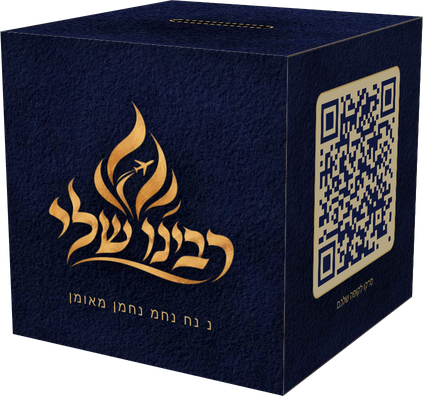
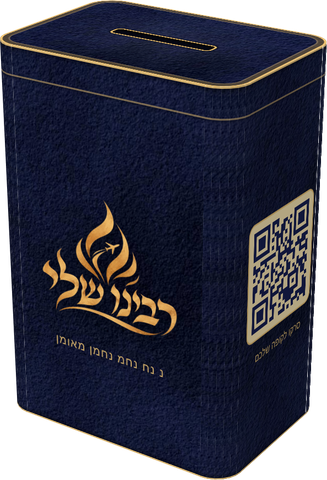
Box now matches the real tin: tall 65×45×95 shape with rounded corners and lid rim; re-rendered box images, story card and share image
Claude-Session: https://claude.ai/code/session_01VgTt85jE2ddtHjzq3dwd3t

diff --git a/public/kbox.css b/public/kbox.css
@@ -1,20 +1,24 @@
 /* the tzedakah box – one clean matte colour, logo centred, QR on the side */
-.kb{--w:calc(300px*var(--s,1));--h:calc(300px*var(--s,1));--d:calc(300px*var(--s,1));--u:calc(1px*var(--s,1));width:var(--w);height:var(--h);position:relative;transform-style:preserve-3d}
-.kb .f{position:absolute;backface-visibility:hidden;background:#141c4a url(/stone.jpg);background-size:calc(300px*var(--s,1));overflow:hidden;box-shadow:inset 0 0 0 calc(1.2*var(--u)) rgba(212,176,106,.35)}
-.kb .f::before{content:"";position:absolute;inset:0;background:url(/grain.jpg);background-size:calc(240px*var(--s,1));opacity:0}
-.kb .fr,.kb .bk{width:var(--w);height:var(--h)}
-.kb .fr{transform:translateZ(calc(var(--d)/2));display:grid;place-items:center;align-content:center;gap:calc(14*var(--u));box-shadow:inset 0 0 calc(50*var(--u)) rgba(0,0,0,.35)}
-.kb .bk{transform:rotateY(180deg) translateZ(calc(var(--d)/2))}
-.kb .lt,.kb .rt{width:var(--d);height:var(--h);left:calc((var(--w) - var(--d))/2);display:grid;place-items:center;align-content:center;gap:calc(14*var(--u))}
+/* the tzedakah box – a tall tin box (65×45×95 mm) with rounded vertical corners, like the real one.
+   faces: fr (logo) · rt/lt (QR) · tp (slot). The rounded corners are thin strips added by /kbox.js */
+.kb{--u:calc(1px*var(--s,1));--w:calc(246*var(--u));--d:calc(170*var(--u));--h:calc(360*var(--u));--r:calc(26*var(--u));width:var(--w);height:var(--h);position:relative;transform-style:preserve-3d}
+.kb .f,.kb .cs{position:absolute;backface-visibility:hidden;background-color:#141c4a;background-image:linear-gradient(180deg,#d4b06a 0,#d4b06a calc(1.6*var(--u)),rgba(0,0,0,.35) calc(1.6*var(--u)),transparent calc(6*var(--u)),transparent calc(100% - 6*var(--u)),rgba(0,0,0,.4) calc(100% - 1.6*var(--u)),#d4b06a calc(100% - 1.6*var(--u))),linear-gradient(180deg,transparent calc(26*var(--u)),rgba(212,176,106,.55) calc(26*var(--u)),rgba(212,176,106,.55) calc(27.4*var(--u)),rgba(0,0,0,.28) calc(27.4*var(--u)),transparent calc(30*var(--u))),url(/stone.jpg);background-size:auto,auto,calc(300*var(--u));overflow:hidden}
+.kb .f::before{content:none}
+.kb .f,.kb .cs{box-sizing:border-box}
+.kb .fr,.kb .bk{width:calc(var(--w) - 2*var(--r));height:var(--h);left:var(--r)}
+.kb .fr{transform:translateZ(calc(var(--d)/2));display:grid;place-items:center;align-content:center;gap:calc(16*var(--u));padding-top:calc(30*var(--u))}
+.kb .bk{transform:rotateY(180deg) translateZ(calc(var(--d)/2));filter:brightness(.7)}
+.kb .lt,.kb .rt{width:calc(var(--d) - 2*var(--r));height:var(--h);left:calc((var(--w) - var(--d))/2 + var(--r));display:grid;place-items:center;align-content:center;gap:calc(12*var(--u));padding-top:calc(30*var(--u))}
 .kb .rt{transform:rotateY(90deg) translateZ(calc(var(--w)/2));filter:brightness(.78)}.kb .lt{transform:rotateY(-90deg) translateZ(calc(var(--w)/2));filter:brightness(.6)}
-.kb .tp,.kb .bt{width:var(--w);height:var(--d);top:calc((var(--h) - var(--d))/2)}
+.kb .tp,.kb .bt{width:var(--w);height:var(--d);top:calc((var(--h) - var(--d))/2);border-radius:var(--r);background-image:radial-gradient(ellipse at 50% 50%,rgba(255,255,255,.06),transparent 70%),url(/stone.jpg);background-size:auto,calc(300*var(--u));box-shadow:inset 0 0 0 calc(2*var(--u)) #c9a35c,inset 0 0 0 calc(7*var(--u)) rgba(0,0,0,.35),inset 0 0 0 calc(8.4*var(--u)) rgba(212,176,106,.45)}
 .kb .tp{transform:rotateX(90deg) translateZ(calc(var(--h)/2));filter:brightness(1.18)}.kb .bt{transform:rotateX(-90deg) translateZ(calc(var(--h)/2));filter:brightness(.45)}
-.kb .lg{width:72%;filter:drop-shadow(0 calc(3*var(--u)) calc(5*var(--u)) rgba(0,0,0,.45))}
-.kb .nn{font-family:Fredoka,sans-serif;font-weight:500;font-size:calc(13.5*var(--u));letter-spacing:.16em;color:#d4b06a;white-space:nowrap}
-.kb .qr{width:56%;aspect-ratio:1;padding:calc(9*var(--u));border-radius:calc(10*var(--u));background:#e6d3a6;box-shadow:0 0 0 calc(1.5*var(--u)) #d4b06a}
+.kb .cs{top:0;height:var(--h)}
+.kb .lg{width:80%;filter:drop-shadow(0 calc(3*var(--u)) calc(5*var(--u)) rgba(0,0,0,.45))}
+.kb .nn{font-family:Fredoka,sans-serif;font-weight:500;font-size:calc(11.5*var(--u));letter-spacing:.08em;color:#d4b06a;white-space:nowrap}
+.kb .qr{width:80%;aspect-ratio:1;padding:calc(7*var(--u));border-radius:calc(8*var(--u));background:#e6d3a6;box-shadow:0 0 0 calc(1.5*var(--u)) #d4b06a}
 .kb .qr img{width:100%;height:100%;display:block}
-.kb .qt{font-family:Fredoka,sans-serif;font-weight:500;font-size:calc(11*var(--u));color:#d4b06a;text-align:center;line-height:1.35;padding:0 calc(10*var(--u))}
-.kb .slot{position:absolute;left:50%;top:50%;width:calc(110*var(--u));height:calc(12*var(--u));margin:calc(-6*var(--u)) 0 0 calc(-55*var(--u));border-radius:99px;background:#03050f;box-shadow:inset 0 calc(3*var(--u)) calc(4*var(--u)) #000,0 0 0 calc(2*var(--u)) #c9a35c}
+.kb .qt{font-family:Fredoka,sans-serif;font-weight:500;font-size:calc(10.5*var(--u));color:#d4b06a;text-align:center;line-height:1.35;padding:0 calc(6*var(--u))}
+.kb .slot{position:absolute;left:50%;top:50%;width:calc(100*var(--u));height:calc(13*var(--u));margin:calc(-6.5*var(--u)) 0 0 calc(-50*var(--u));border-radius:calc(4*var(--u));background:#03050f;box-shadow:inset 0 calc(3*var(--u)) calc(4*var(--u)) #000,0 0 0 calc(2*var(--u)) #c9a35c,0 0 0 calc(3.5*var(--u)) rgba(0,0,0,.4)}
 /* falling shekel – real 3D coin inside the box space, drops edge-first through the slot */
 .kb .cn3{position:absolute;left:50%;top:0;width:calc(54*var(--u));height:calc(54*var(--u));margin:calc(-27*var(--u)) 0 0 calc(-27*var(--u));transform-style:preserve-3d;animation:cdrop 4.6s infinite;pointer-events:none}
 .kb .cn3 i{position:absolute;inset:0;border-radius:50%;background:linear-gradient(90deg,#6f747b,#c9ced4 50%,#6f747b)}

diff --git a/public/index.html b/public/index.html
@@ -8,7 +8,7 @@
 <link rel="icon" href="/favicon.png"><link rel="apple-touch-icon" href="/apple-icon.png">
 <link rel="preconnect" href="https://fonts.googleapis.com"><link rel="preconnect" href="https://fonts.gstatic.com" crossorigin><link rel="preconnect" href="https://images.unsplash.com">
 <link href="https://fonts.googleapis.com/css2?family=Bona+Nova:wght@700&family=Heebo:wght@200;800&family=Fredoka:wght@400;500;600;700&display=swap" rel="stylesheet">
-<link rel="stylesheet" href="/base.css?v=6"><link rel="stylesheet" href="/kbox.css?v=5"><script src="/i18n.js?v=1"></script>
+<link rel="stylesheet" href="/base.css?v=6"><link rel="stylesheet" href="/kbox.css?v=6"><script src="/kbox.js?v=1" defer></script><script src="/i18n.js?v=1"></script>
 <style>
 .wrap{width:min(1200px,100% - 40px);margin-inline:auto}
 h1,h2,h3,.f{font-family:var(--fs)}
@@ -42,7 +42,7 @@ nav .logo img.lgo{height:64px}nav.s .logo img.lgo{height:50px}nav .logo img{tran
 .arch .cap{position:absolute;bottom:26px;inset-inline:26px;color:var(--ink);z-index:2}.arch .cap small{display:block;color:var(--gold2);font-weight:600;letter-spacing:.1em;font-size:13px}.arch .cap b{font-size:22px;font-weight:600}
 /* 3D box */
 .b3w{position:absolute;bottom:-34px;inset-inline-end:-50px;perspective:900px;z-index:3;transform:translateY(var(--by,0))}
-.kbs{--s:.56;transform:rotateX(-15deg) rotateY(-30deg);animation:sway2 10s ease-in-out infinite}@keyframes sway2{50%{transform:rotateX(-10deg) rotateY(18deg)}}.b3{--w:150px;--h:200px;--d:92px;width:var(--w);height:var(--h);position:relative;transform-style:preserve-3d;animation:sway 10s ease-in-out infinite;transform:rotateX(-10deg) rotateY(-30deg)}
+.kbs{--s:.62;transform:rotateX(-15deg) rotateY(-30deg);animation:sway2 10s ease-in-out infinite}@keyframes sway2{50%{transform:rotateX(-10deg) rotateY(18deg)}}.b3{--w:150px;--h:200px;--d:92px;width:var(--w);height:var(--h);position:relative;transform-style:preserve-3d;animation:sway 10s ease-in-out infinite;transform:rotateX(-10deg) rotateY(-30deg)}
 @keyframes sway{50%{transform:rotateX(-6deg) rotateY(20deg)}}
 .b3 .f{position:absolute;backface-visibility:hidden;background:#141b45 url(/stone.jpg);background-size:300px;border:1px solid rgba(217,174,91,.55)}
 .b3 .fr,.b3 .bk{width:var(--w);height:var(--h)}.b3 .fr{transform:translateZ(calc(var(--d)/2));display:grid;place-items:center;align-content:center;gap:8px;text-align:center;box-shadow:inset 0 0 0 6px rgba(9,13,32,.4),inset 0 0 0 7px rgba(217,174,91,.6)}
@@ -316,7 +316,7 @@ footer{border-top:1px solid rgba(246,239,224,.1);padding:40px 0 calc(90px + env(
 </form></div>
 <canvas id="share" width="1080" height="1350" style="display:none"></canvas>
 <div class="toast" id="toast"></div><div class="jt" id="jt" aria-live="polite"></div>
-<script src="/cities.js?v=5"></script><script src="/share.js?v=6"></script>
+<script src="/cities.js?v=5"></script><script src="/share.js?v=7"></script>
 <script src="/ilmap.js?v=5"></script>
 <script>
 const $=s=>document.querySelector(s),$$=s=>[...document.querySelectorAll(s)];

diff --git a/public/me.html b/public/me.html
@@ -6,7 +6,7 @@
 <link rel="icon" href="/favicon.png"><link rel="apple-touch-icon" href="/apple-icon.png">
 <link rel="preconnect" href="https://fonts.googleapis.com"><link rel="preconnect" href="https://fonts.gstatic.com" crossorigin>
 <link href="https://fonts.googleapis.com/css2?family=Bona+Nova:wght@700&family=Heebo:wght@200;800&family=Fredoka:wght@400;500;600;700&display=swap" rel="stylesheet">
-<link rel="stylesheet" href="/base.css?v=6"><link rel="stylesheet" href="/kbox.css?v=5"><script src="/i18n.js?v=1"></script>
+<link rel="stylesheet" href="/base.css?v=6"><link rel="stylesheet" href="/kbox.css?v=6"><script src="/kbox.js?v=1" defer></script><script src="/i18n.js?v=1"></script>
 <style>
 body{min-height:100svh;--a11y-b:92px}
 .app{width:min(520px,100%);margin:0 auto;min-height:100svh;padding:0 18px calc(96px + env(safe-area-inset-bottom));position:relative}
@@ -18,8 +18,8 @@ body{min-height:100svh;--a11y-b:92px}
 .scr{display:none;animation:in .45s cubic-bezier(.2,.9,.25,1)}.scr.on{display:block}@keyframes in{from{opacity:0;transform:translateY(12px)}}
 .hero{position:relative;margin-top:14px;border-radius:28px;border:1px solid var(--line);background:rgba(9,13,32,.45);padding:20px 18px 18px;overflow:hidden;text-align:center}
 .hero::before{content:"";position:absolute;inset:-30% -10% auto;height:70%;background:radial-gradient(closest-side,rgba(217,174,91,.14),transparent);pointer-events:none}
-.stage{height:190px;display:grid;place-items:center;perspective:900px;position:relative}
-.kbm{--s:.44;transform:rotateX(-15deg) rotateY(-28deg);animation:swm 10s ease-in-out infinite}@keyframes swm{50%{transform:rotateX(-10deg) rotateY(18deg)}}
+.stage{height:215px;display:grid;place-items:center;perspective:900px;position:relative}
+.kbm{--s:.42;transform:rotateX(-15deg) rotateY(-28deg);animation:swm 10s ease-in-out infinite}@keyframes swm{50%{transform:rotateX(-10deg) rotateY(18deg)}}
 .kbm .cn3{animation:none;opacity:0}.kbm .cn3.go{animation:cdrop 1.5s 1 forwards}
 .bal{font-family:var(--fs);font-weight:700;font-size:58px;line-height:1;margin-top:6px}.bals{color:var(--mut);font-size:14px;margin-top:6px}
 .chk{margin-top:16px;width:100%;min-height:62px;font-size:18px}
@@ -142,7 +142,7 @@ svg.li *{animation:none!important;stroke-dasharray:none!important;stroke-dashoff
 
 <div class="sh" id="sh" role="dialog" aria-modal="true"><div class="pn" id="pn"></div></div>
 <div class="toast" id="toast"></div><datalist id="cityList"></datalist>
-<script src="/cities.js?v=5"></script><script src="/share.js?v=6"></script>
+<script src="/cities.js?v=5"></script><script src="/share.js?v=7"></script>
 <script>
 const $=s=>document.querySelector(s),$$=s=>[...document.querySelectorAll(s)];
 const fmt=n=>Math.round(+n||0).toLocaleString('he-IL');const esc=s=>String(s??'').replace(/[&<>"]/g,c=>({'&':'&amp;','<':'&lt;','>':'&gt;','"':'&quot;'}[c]));

diff --git a/public/share.js b/public/share.js
@@ -17,7 +17,7 @@ window.rbCard=async function({boxNo,ref,streak,first,url}){
   x.fillStyle='#d4b06a';x.font='500 30px Fredoka, sans-serif';x.letterSpacing='10px';x.fillText(t('נ נח נחמ נחמן מאומן'),540,130);x.letterSpacing='0px';
   x.fillStyle='#f3ead7';fit(t('שקל אחד ביום'),960,'200 124px Heebo, sans-serif');x.fillText(t('שקל אחד ביום'),540,300);
   g=x.createLinearGradient(0,330,0,470);g.addColorStop(0,'#f1d697');g.addColorStop(.55,'#d2ab62');g.addColorStop(1,'#a97f39');x.fillStyle=g;fit(t('לרבינו'),960,'800 188px Heebo, sans-serif');x.fillText(t('לרבינו'),540,462);
-  if(bx){const sh=x.createRadialGradient(540,1435,10,540,1435,330);sh.addColorStop(0,'rgba(0,0,0,.7)');sh.addColorStop(1,'rgba(0,0,0,0)');x.fillStyle=sh;x.beginPath();x.ellipse(540,1435,330,60,0,0,7);x.fill();const w=720,h=w*bx.height/bx.width;x.drawImage(bx,540-w/2,1450-h,w,h)}
+  if(bx){const sh=x.createRadialGradient(540,1435,10,540,1435,330);sh.addColorStop(0,'rgba(0,0,0,.7)');sh.addColorStop(1,'rgba(0,0,0,0)');x.fillStyle=sh;x.beginPath();x.ellipse(540,1435,330,60,0,0,7);x.fill();const h=760,w=h*bx.width/bx.height;x.drawImage(bx,540-w/2,1450-h,w,h)}
   g=x.createLinearGradient(0,1500,0,1580);g.addColorStop(0,'#f1d697');g.addColorStop(1,'#b98d43');x.fillStyle=g;{const s1=(first?first+' · ':'')+t('קופה מס׳')+' '+String(boxNo).padStart(4,'0');fit(s1,960,'200 70px Heebo, sans-serif');x.fillText(s1,540,1565)}
   x.fillStyle='#cfc6b3';{const s2=streak>1?t(`${streak} בקרים ברצף · בזכותי עוד יהודי באומן`):t('בזכותי עוד יהודי באומן');fit(s2,960,'500 36px Fredoka, sans-serif');x.fillText(s2,540,1625)}
   // bottom: QR + call to action

diff --git a/public/kbox.js b/public/kbox.js
@@ -1,0 +1,15 @@
+// rounded vertical corners for every .kb box: 4 corners × 6 thin strips around a cylinder of radius --r
+(function(){
+  const N=6,B=[[0,1],[90,.78],[180,.7],[270,.6],[360,1]];
+  const lum=a=>{for(let i=1;i<B.length;i++)if(a<=B[i][0]){const[a0,b0]=B[i-1],[a1,b1]=B[i];return b0+(b1-b0)*(a-a0)/(a1-a0)}return 1};
+  const C=[[1,1,0],[1,-1,90],[-1,-1,180],[-1,1,270]]; // x sign, z sign, start angle
+  function build(kb){if(kb.dataset.round)return;kb.dataset.round=1;const frag=document.createDocumentFragment();
+    for(const[sx,sz,a0]of C)for(let k=0;k<N;k++){const a=a0+(k+.5)*90/N,el=document.createElement('div');el.className='cs';
+      el.style.width=`calc(2*var(--r)*${Math.sin(Math.PI/4/N).toFixed(4)} + 0.6px)`;el.style.left=`calc((var(--w) - 2*var(--r)*${Math.sin(Math.PI/4/N).toFixed(4)})/2)`;
+      el.style.transform=`translateX(calc(${sx}*(var(--w)/2 - var(--r)))) translateZ(calc(${sz}*(var(--d)/2 - var(--r)))) rotateY(${a}deg) translateZ(var(--r))`;
+      el.style.filter=`brightness(${lum(a).toFixed(3)})`;frag.appendChild(el)}
+    kb.appendChild(frag)}
+  const run=()=>document.querySelectorAll('.kb').forEach(build);
+  if(document.readyState==='loading')document.addEventListener('DOMContentLoaded',run);else run();
+  window.kbRound=run;
+})();
